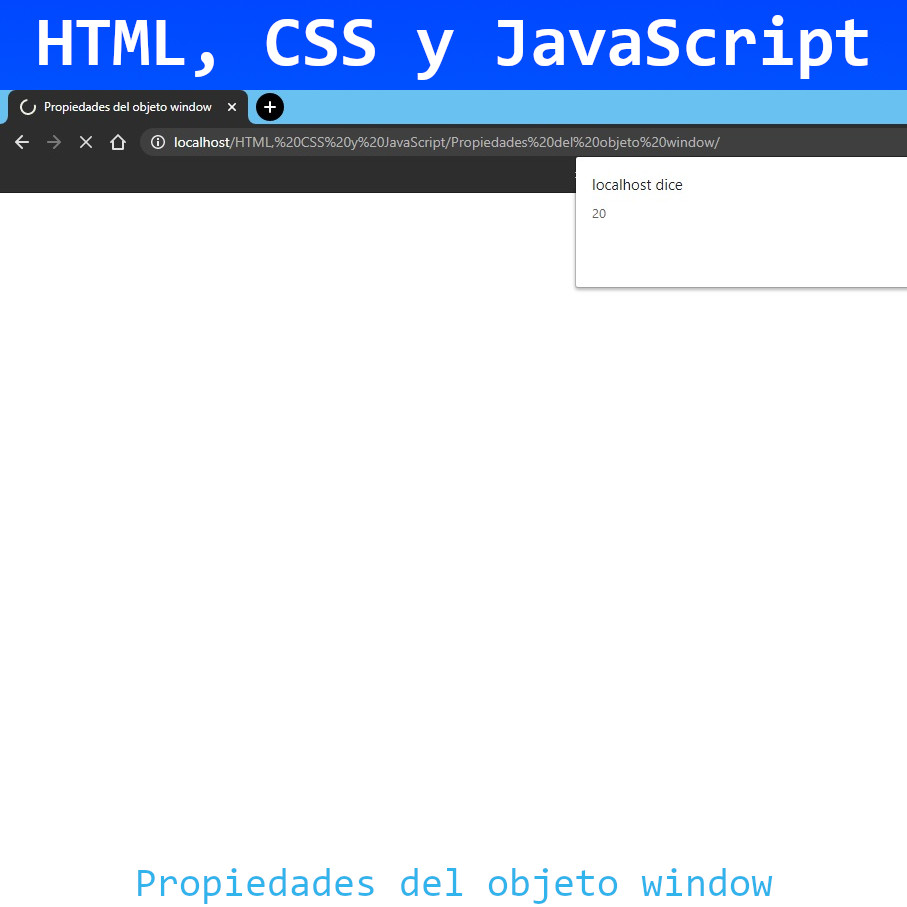
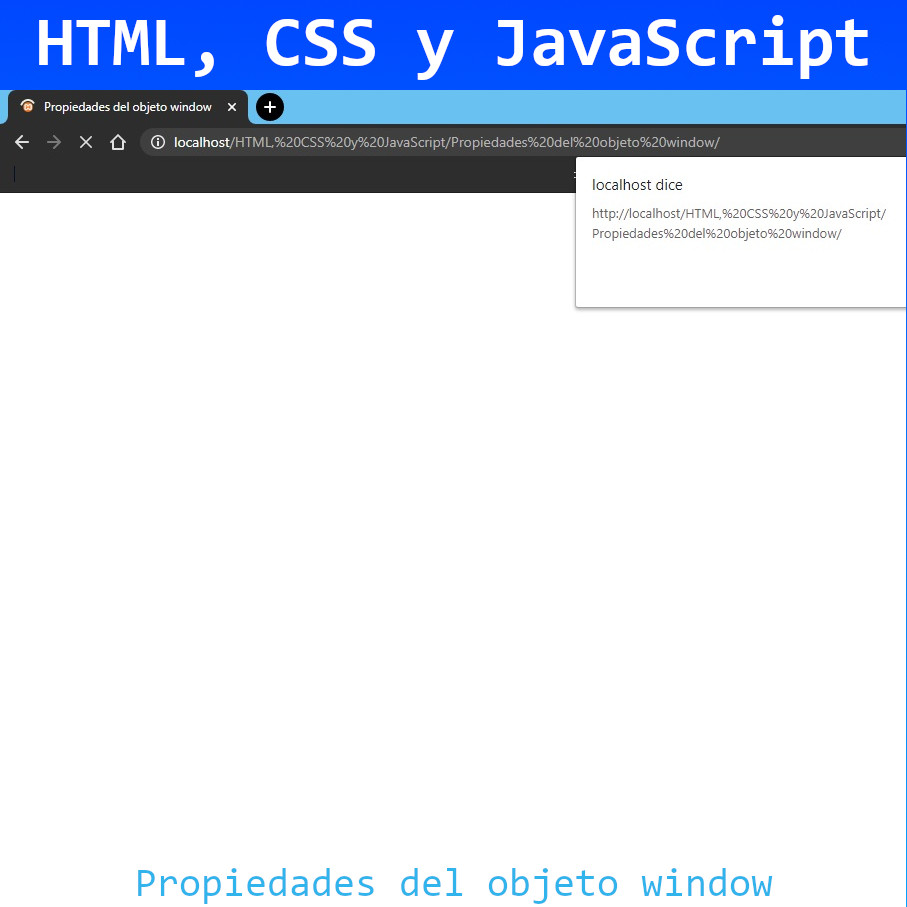
Propiedades del objeto window
Propiedades del objeto window en JavaScript

Changed region(s): [[0.6174, 0.3087, 1.0, 0.3705], [0.6483, 0.2161, 0.9879, 0.2778], [0.0309, 0.0926, 0.0617, 0.1235]]

diff --git a/HTML, CSS y JavaScript/Propiedades del objeto window/js/funciones.js b/HTML, CSS y JavaScript/Propiedades del objeto window/js/funciones.js
@@ -9,12 +9,18 @@ if(window.close() == 0) {
 //------------------------------------------------
 // VER HISTORIAL
 // ver cuántas páginas se han visitado anteriormente
-//var historial = window.history.length;
+var historial = window.history.length;
 // ver página anterior
 //var historial = window.history.back();
 // ver página siguiente
 //var historial = window.history.forward();
 // abrir una página específica
-var historial = window.history.go();
+//var historial = window.history.go();
 // alerta
 alert(historial);
+//----------------------
+// GESTIONAR INFORMACIÓN
+// ver información de la página actual
+var gestionar = window.location;
+// alerta
+alert(gestionar);
